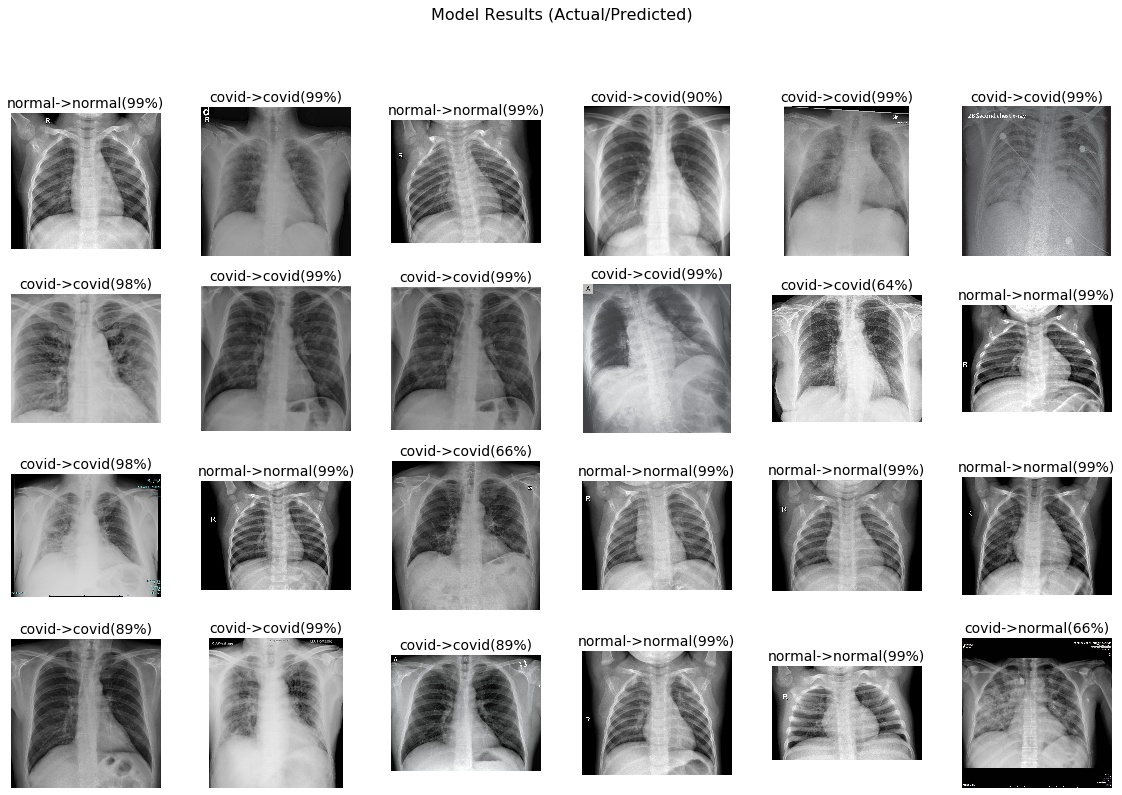
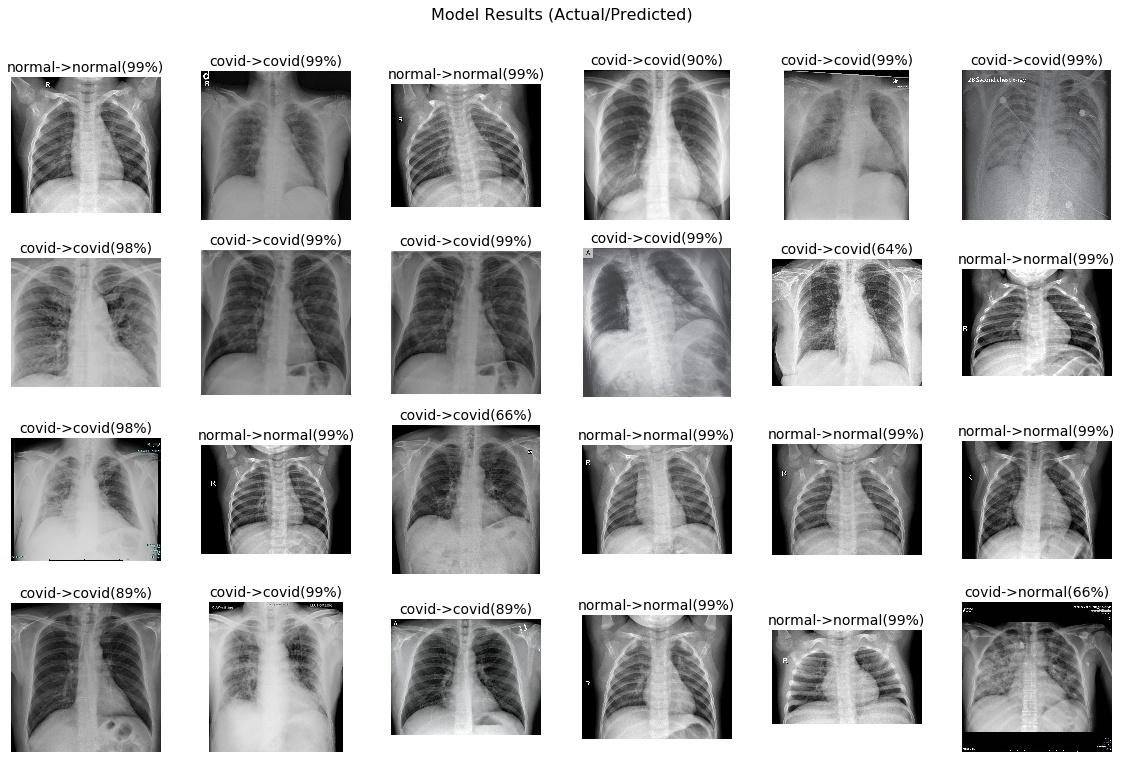
Added Prob Score

diff --git a/README.md b/README.md
@@ -33,7 +33,7 @@ This repository presents results of initial work to detect Covid-19 from X-ray i
 
 ## Sanity Check
 
-![model](./data/figs/sample_results.jpg)
+![model](./data/figs/model_results.jpg)
 
 ## Project Member
 [Dr. Nagender Aneja, http://ResearchID.co/naneja ](http://ResearchID.co/naneja)
